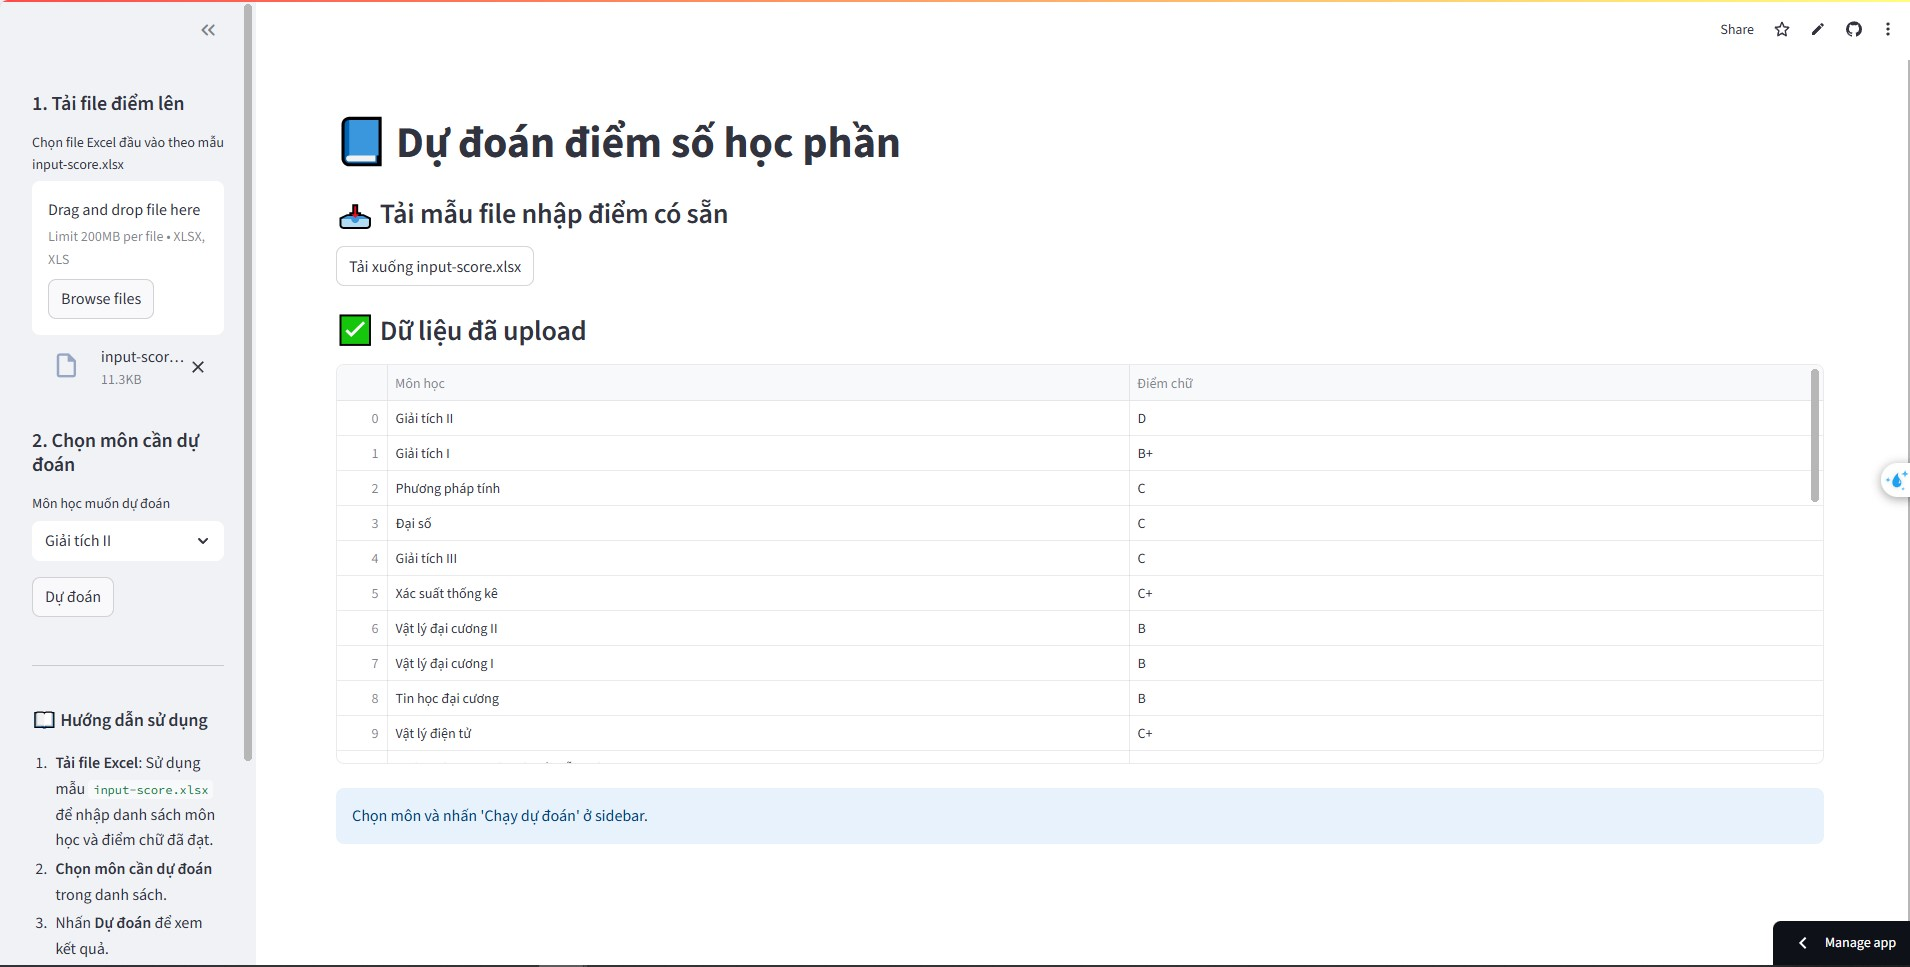
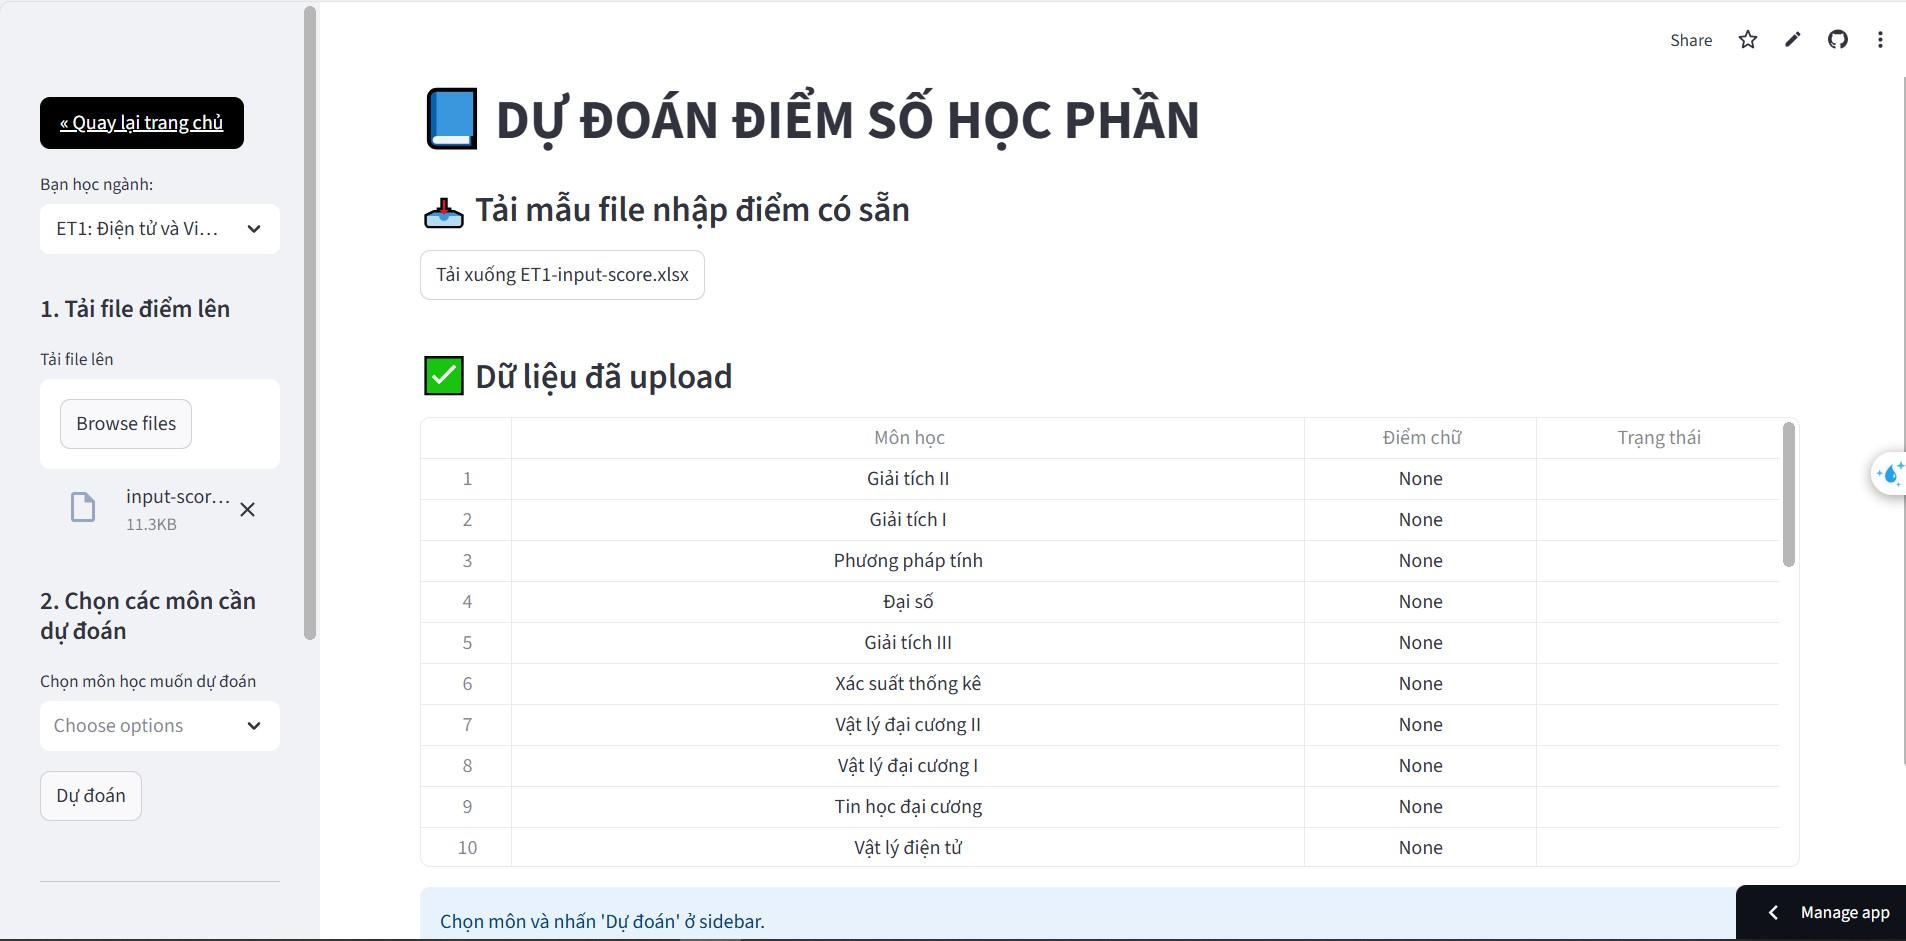
heheh

diff --git a/instruction.html b/instruction.html
@@ -71,15 +71,15 @@
       <!-- Find subject score -->
       <article class="step">
         <h3>2. Dự đoán điểm từng môn</h3>
-        <p>Bước 1: Download file excel input-score.xlsx bằng cách chọn nút "Tải xuống input-score.xlsx".</p>
+        <p>Bước 1: Chọn ngành học ở "Bạn học ngành:" sau đó download file excel bằng cách chọn nút "Tải xuống file.xlsx".</p>
         <img src="img/score_1.jpg" alt="Ảnh minh họa bước 1">
         <p>Bước 2: Nhập điểm số các môn đã học.</p>
         <img src="img/score_2.jpg" alt="Ảnh minh họa bước 2">
         <p>Bước 3: Upload file bằng cách chọn Browse files.</p>
         <img src="img/score_3.jpg" alt="Ảnh minh họa bước 3">
-        <p>Bước 4: Chọn môn học muốn dự đoán.</p>
+        <p>Bước 4: Chọn những môn học muốn dự đoán.</p>
         <img src="img/score_4.jpg" alt="Ảnh minh họa bước 4">
-        <p>Bước 5: Nhấn nút <strong>Dự đoán</strong> để xem kết quả.</p>
+        <p>Bước 5: Nhấn nút <strong>Dự đoán</strong> và kéo xuống để xem kết quả.</p>
         <img src="img/score_5.jpg" alt="Ảnh minh họa bước 5">
       </article>
     </section>
